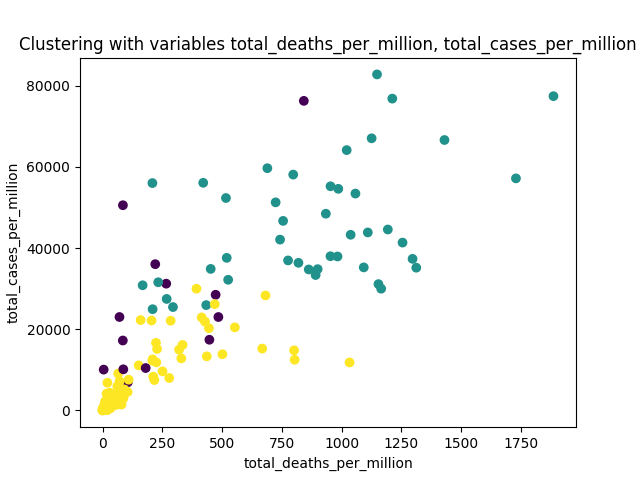
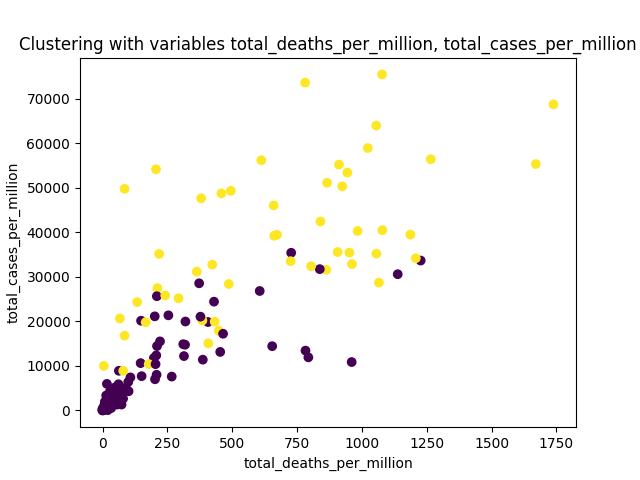
Standarized data

diff --git a/Application/scripts/main.py b/Application/scripts/main.py
@@ -839,7 +839,7 @@ def main():
                     break
                 else:
                     print("Wrong Choice")
-       elif choice==6:
+        elif choice==6:
             while(True):
                 print("----------------------")
                 print("Machine Learning Menu")
@@ -849,15 +849,15 @@ def main():
                 print("----------------------")
                 option6=enter_integer("Choose the indicators you want to use when clustering: ")
                 if option6==1:
-                    write_executable('machineLearning', "data.ml_covid_data(['total_deaths_per_million', 'total_cases_per_million', 'gdp_per_capita', 'hospital_beds_per_thousand'])", mode)
+                    write_executable('machineLearning', "data.ml_covid_data(['total_deaths_per_million', 'total_cases_per_million', 'gdp_per_capita', 'hospital_beds_per_thousand'])", mode, num_threads_local)
                     os.system("spark-submit " + dir + "/scripts/execute.py")
                     break
                 elif option6 == 2:
-                    write_executable('machineLearning', "data.ml_vaccines_data(['total_deaths_per_million', 'total_cases_per_million'], ['Vaccine importance, Strongly agree (%)', 'Vaccine safety,Strongly agree (%)'])", mode)
+                    write_executable('machineLearning', "data.ml_vaccines_data(['total_deaths_per_million', 'total_cases_per_million'], ['Vaccine importance, Strongly agree (%)', 'Vaccine safety,Strongly agree (%)'])", mode, num_threads_local)
                     os.system("spark-submit " + dir + "/scripts/execute.py")
                     break
                 elif option6 == 3:
-                    write_executable('machineLearning', "data.ml_physicians_data(['total_deaths_per_million', 'total_cases_per_million'])", mode)
+                    write_executable('machineLearning', "data.ml_physicians_data(['total_deaths_per_million', 'total_cases_per_million'])", mode, num_threads_local)
                     os.system("spark-submit " + dir + "/scripts/execute.py")
                     break
 

diff --git a/Application/scripts/machineLearning.py b/Application/scripts/machineLearning.py
@@ -4,6 +4,7 @@ from pyspark.ml.feature import VectorAssembler
 from os.path import dirname, abspath
 from pyspark.ml.feature import VectorAssembler
 from pyspark.sql import Window
+from pyspark.ml.feature import StandardScaler
 from pyspark.sql.functions import col, row_number, max, asc
 import matplotlib.pyplot as plt
 from mpl_toolkits.mplot3d import Axes3D
@@ -131,14 +132,18 @@ class MachineLearning:
                 df = df.withColumn(col,df[col].cast('float'))
         vecAssembler = VectorAssembler(inputCols=features, outputCol="features")
         df = vecAssembler.transform(df).select('id', 'features')
-        
+        scaler = StandardScaler(inputCol="features", outputCol="scaledFeatures",
+                        withStd=True, withMean=False)
+        model = scaler.fit(df)
+        df = model.transform(df)
+
         # Calculate the best value for k 
         best_k = -1
         best_silhouette = -1
         silhouette_values = []
         for k in range(2, 10):
             
-            kmeans = KMeans().setK(k).setSeed(1).setFeaturesCol("features")
+            kmeans = KMeans().setK(k).setSeed(1).setFeaturesCol("scaledFeatures")
             model = kmeans.fit(df)
 
             # Make predictions

diff --git a/Application/scripts/execute.py b/Application/scripts/execute.py
@@ -1,6 +1,9 @@
-import covidData, economicData,populationData, processData
+import covidData, economicData,populationData, processData, vaccinesData,physiciansData, machineLearning, vaccinesData
+import shutil
 from pyspark.sql import SparkSession
-spark = SparkSession.builder.appName('CovidAnalysis').master('local').getOrCreate()
-data = processData.ProcessData(spark)
-df =data.get_countries_with_lowest_indicator(15,'gdp_per_capita')
+spark = SparkSession.builder.appName('CovidAnalysis').master('local[*]').getOrCreate()
+data = machineLearning.MachineLearning(spark, 'local')
+df =data.ml_covid_data(['total_deaths_per_million', 'gdp_per_capita'])
 df.show()
+shutil.rmtree('/home/carla/Application/output', ignore_errors = True, onerror = None)
+df.coalesce(1).write.format('csv').options(header=True).save('/home/carla/Application/output')
